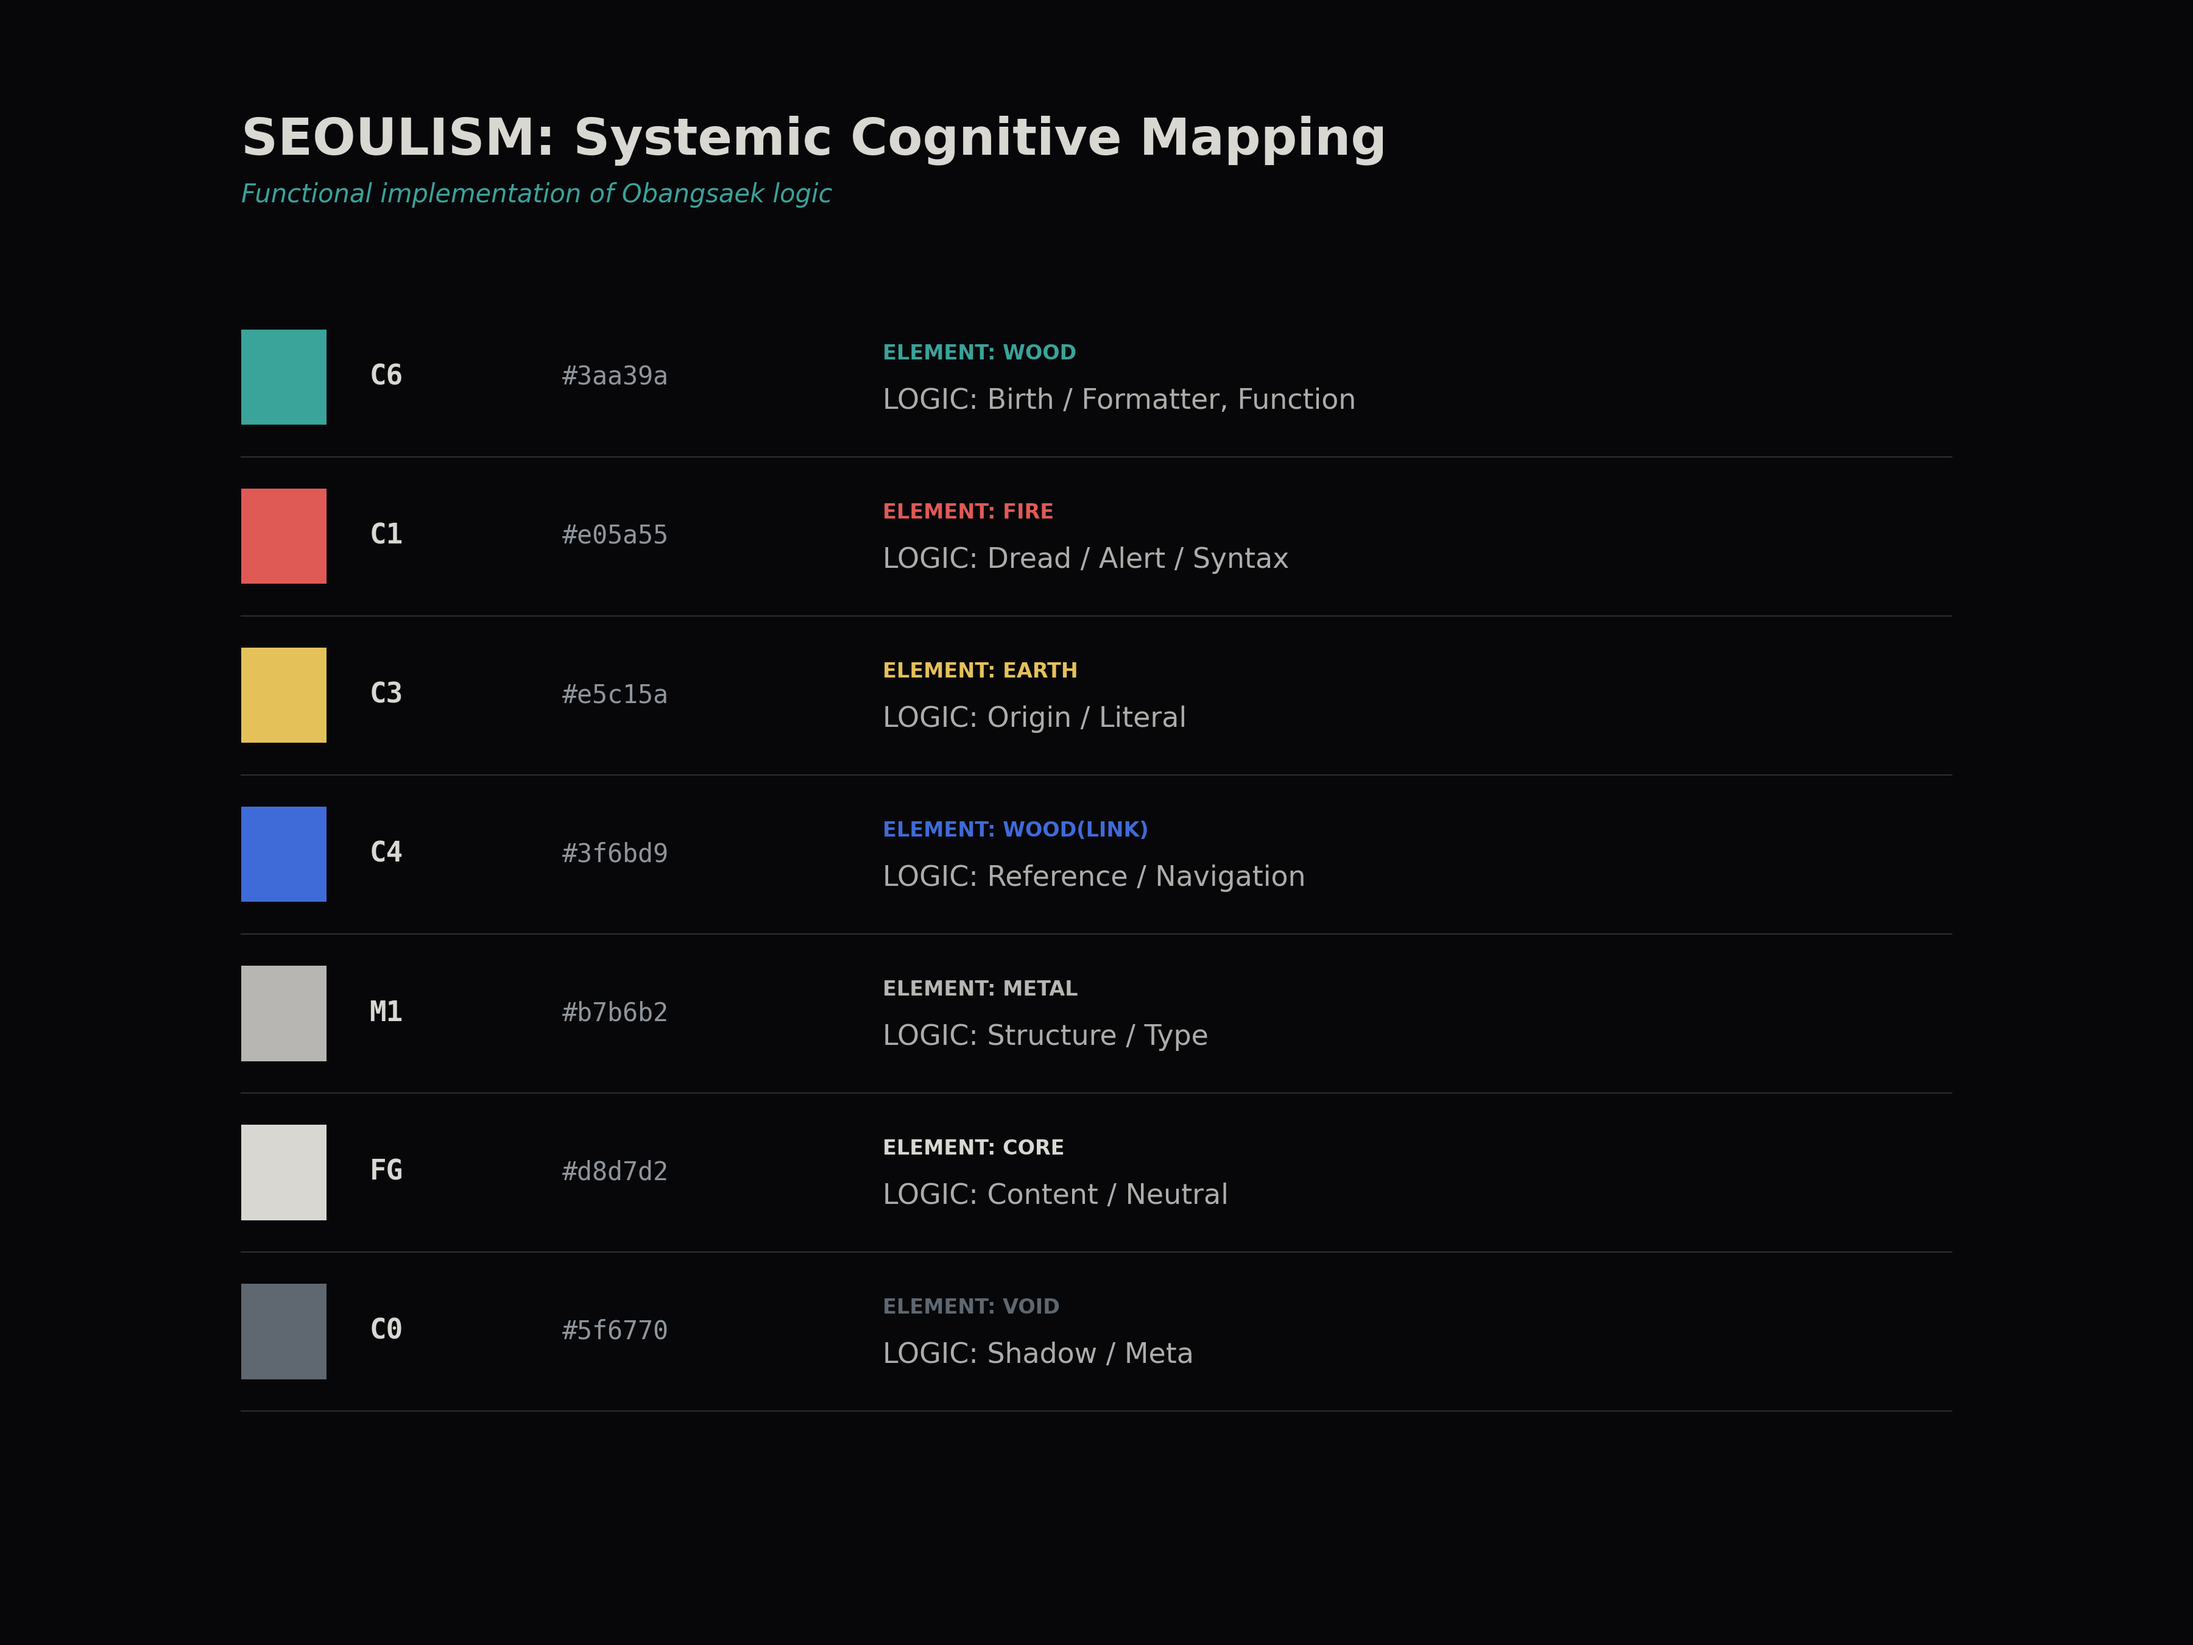
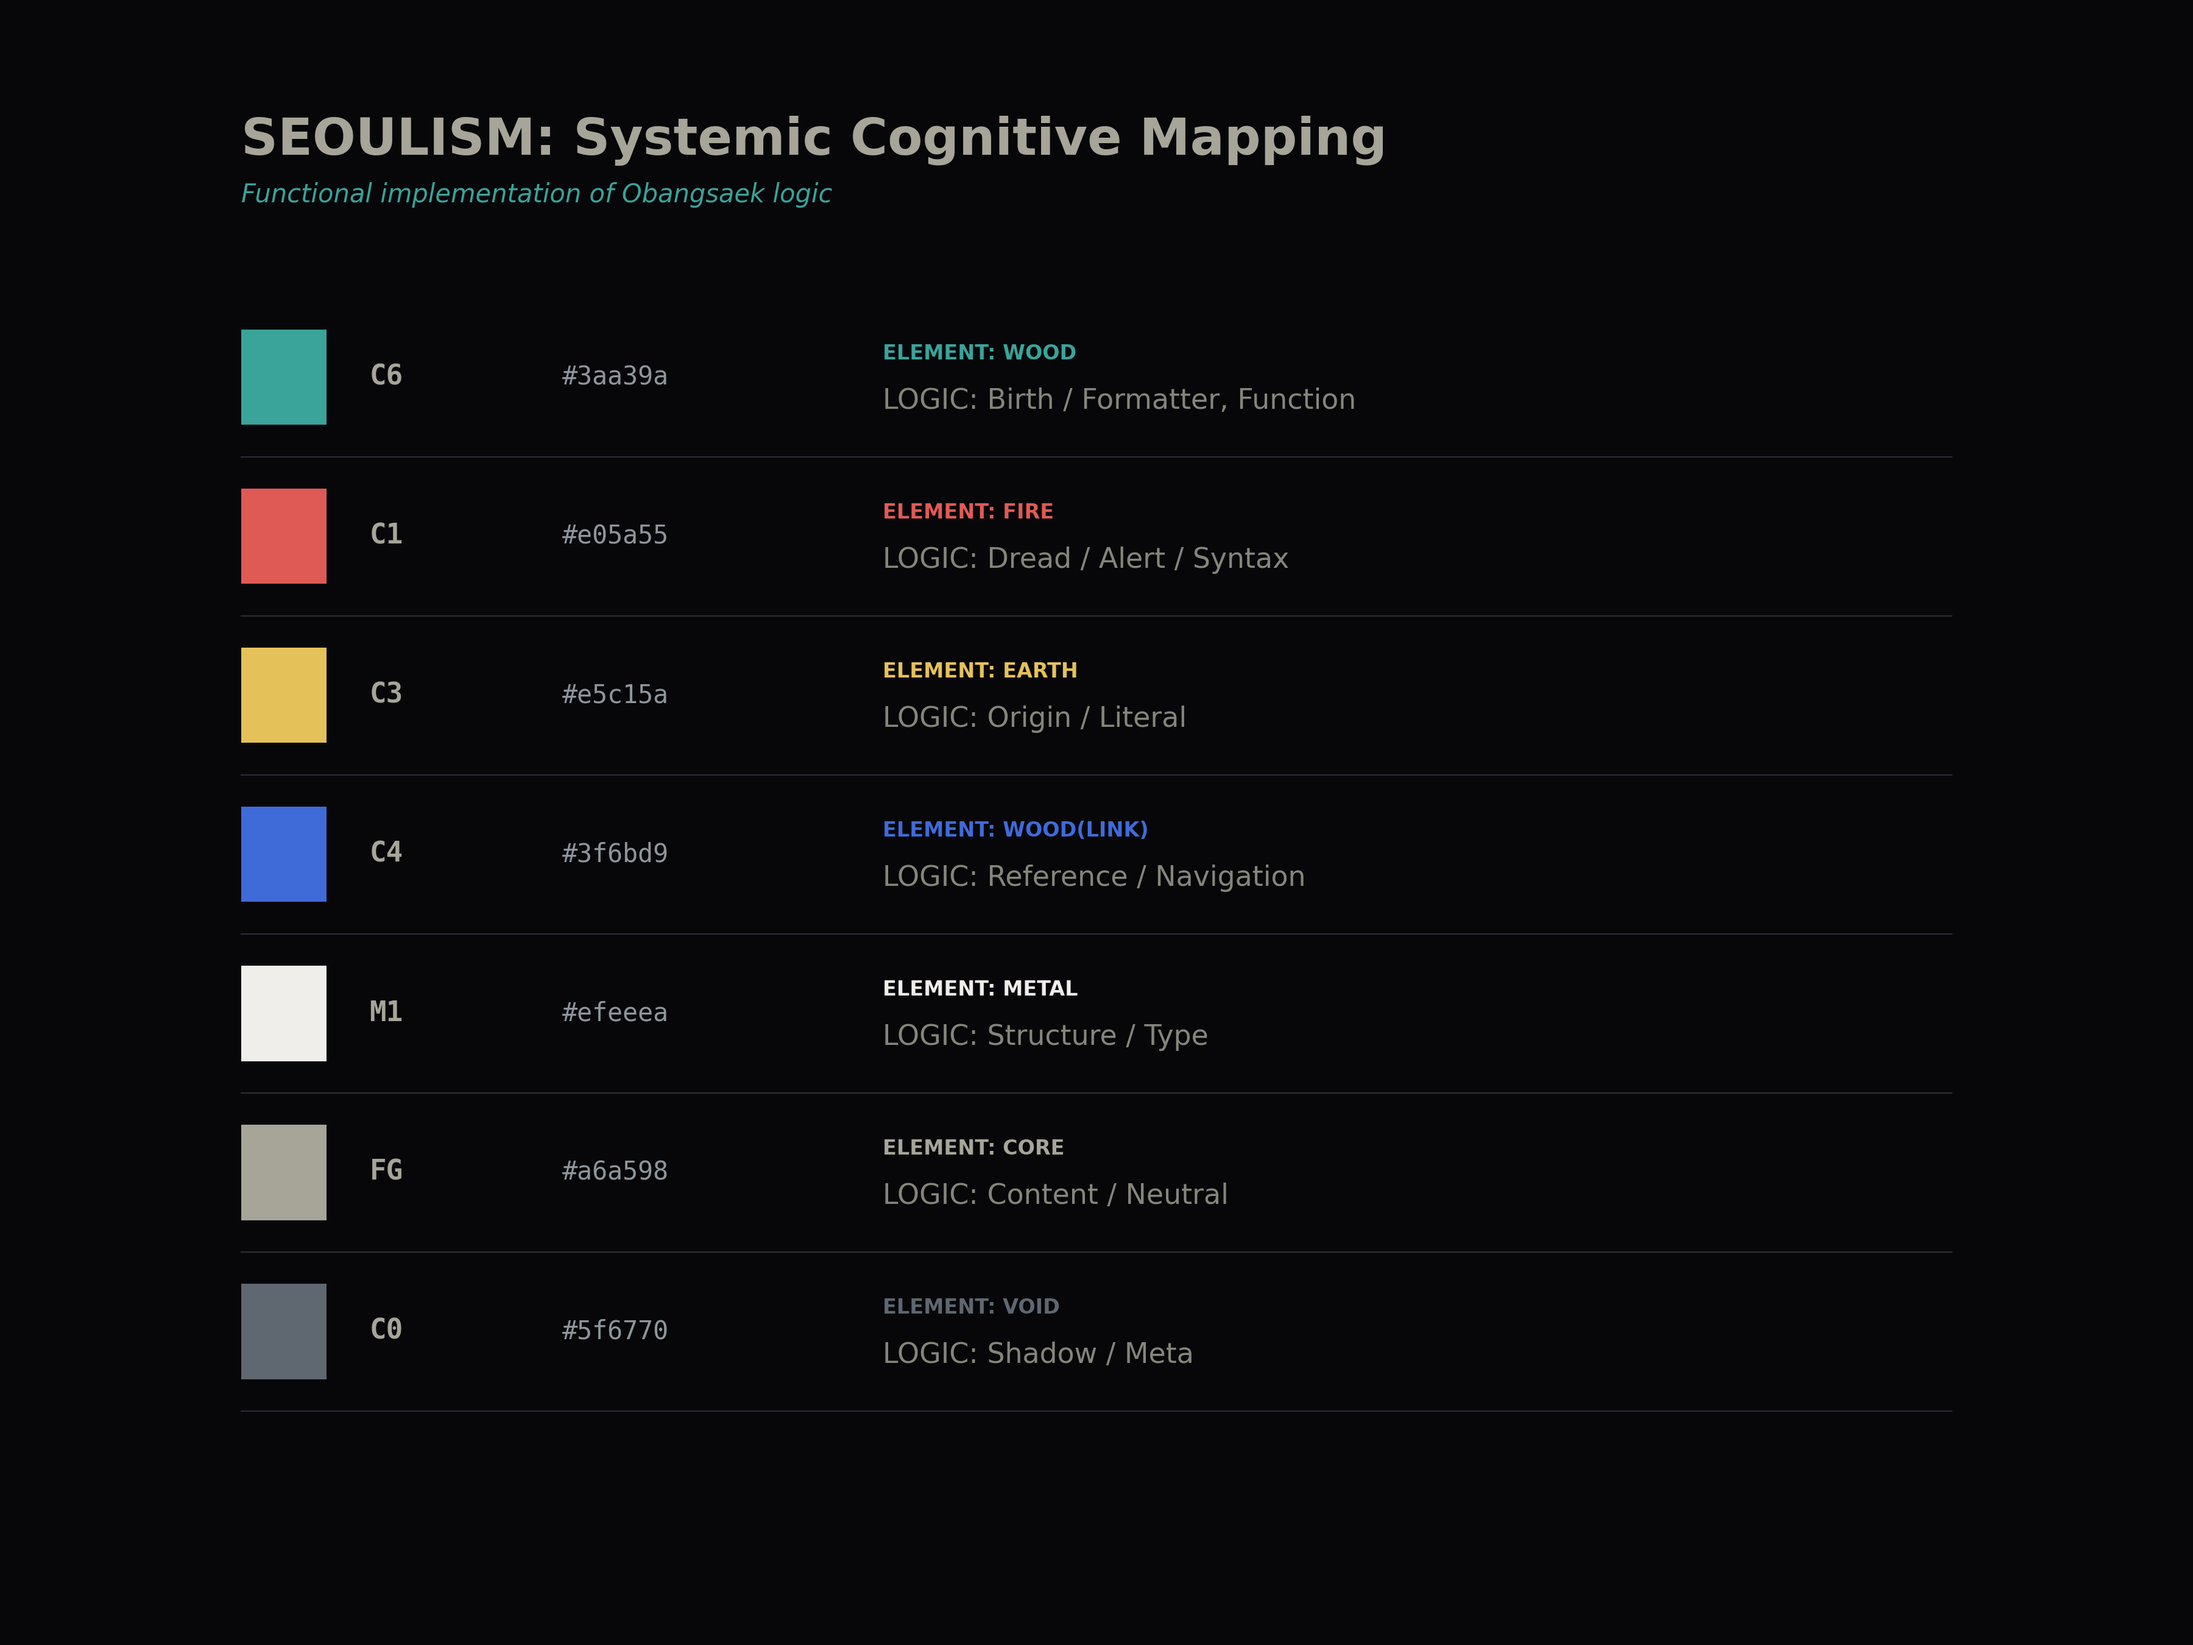
fix normal colors

diff --git a/preview.py b/preview.py
@@ -9,7 +9,7 @@ def draw_seoulism_blueprint():
         {"id": "c3", "tag": "GOLD",   "hex": "#e5c15a", "element": "EARTH",   "logic": "Origin / Literal"},
         {"id": "c4", "tag": "BLUE",   "hex": "#3f6bd9", "element": "WOOD(LINK)",    "logic": "Reference / Navigation"},
         {"id": "m1", "tag": "WHITE",  "hex": "#efeeea", "element": "METAL",   "logic": "Structure / Type"},
-        {"id": "fg", "tag": "BASE",   "hex": "#c6c5c0", "element": "CORE",    "logic": "Content / Neutral"},
+        {"id": "fg", "tag": "BASE",   "hex": "#a6a598", "element": "CORE",    "logic": "Content / Neutral"},
         {"id": "c0", "tag": "SHADOW", "hex": "#5f6770", "element": "VOID",    "logic": "Shadow / Meta"},
     ]
 
@@ -25,7 +25,7 @@ def draw_seoulism_blueprint():
 
     # Header: Technical Specification
     ax.text(10, 92, "SEOULISM: Systemic Cognitive Mapping",
-            color='#c6c5c0', fontsize=20, ha='left', weight='bold')
+            color='#a6a598', fontsize=20, ha='left', weight='bold')
     ax.text(10, 89, "Functional implementation of Obangsaek logic",
             color='#3aa39a', fontsize=10, ha='left', style='italic')
 
@@ -38,7 +38,7 @@ def draw_seoulism_blueprint():
         ax.add_patch(rect)
 
         # Technical Labels
-        ax.text(16, y + 3, item['id'].upper(), color='#c6c5c0',
+        ax.text(16, y + 3, item['id'].upper(), color='#a6a598',
                 fontsize=11, va='center', weight='bold', family='monospace')
 
         ax.text(25, y + 3, item['hex'], color='#8f959c',
@@ -48,7 +48,7 @@ def draw_seoulism_blueprint():
         ax.text(40, y + 4.5, f"ELEMENT: {item['element']}",
                 color=item['hex'], fontsize=8, va='center', weight='black')
         ax.text(40, y + 1.5, f"LOGIC: {item['logic']}",
-                color='#c6c5c0', fontsize=11, va='center', alpha=0.8)
+                color='#a6a598', fontsize=11, va='center', alpha=0.8)
 
         # Divider line for structural feel
         ax.plot([10, 90], [y - 2, y - 2], color='#2b2e36', linewidth=0.5)

diff --git a/visualizer.py b/visualizer.py
@@ -69,7 +69,7 @@ def draw_seoulism_chain():
         stage_idx = int(node.split('_')[1])
         if stage_idx in [2, 3]:
             # Simple brightness check: Dark text for light colors (Yellow/White/Jade)
-            text_color = '#181a1f' if (0.2126*int(hex_color[1:3],16) + 0.7152*int(hex_color[3:5],16) + 0.0722*int(hex_color[5:7],16)) > 135 else '#c6c5c0'
+            text_color = '#181a1f' if (0.2126*int(hex_color[1:3],16) + 0.7152*int(hex_color[3:5],16) + 0.0722*int(hex_color[5:7],16)) > 135 else '#a6a598'
         else:
             text_color = '#b7b6b2'
         
@@ -83,7 +83,7 @@ def draw_seoulism_chain():
                  ha='center', fontweight='extra bold')
 
     plt.title("Systemic Cognitive Mapping: From Elemental Logic to Seoulism", 
-              color='#c6c5c0', fontsize=15, pad=40, fontweight='bold')
+              color='#a6a598', fontsize=15, pad=40, fontweight='bold')
     
     plt.axis('off')
     plt.tight_layout()

diff --git a/pentagon.py b/pentagon.py
@@ -39,7 +39,7 @@ def draw_systemic_divergence():
             ax.add_patch(plt.Circle((x, y), 0.2, facecolor=col, edgecolor='#5f6770', zorder=5))
             is_light = (0.2126*int(col[1:3],16) + 0.7152*int(col[3:5],16) + 0.0722*int(col[5:7],16)) > 135
             ax.text(x, y, f"{node['id']}\n{node['token'] if is_seoul else ''}", 
-                    ha='center', va='center', fontsize=9, fontweight='black', color='#181a1f' if is_light else '#c6c5c0', zorder=6)
+                    ha='center', va='center', fontsize=9, fontweight='black', color='#181a1f' if is_light else '#a6a598', zorder=6)
 
     render_layer(ax1, "trad", "CANONICAL PROTOCOL")
     render_layer(ax2, "seoul", "SEOULISM SYSTEM", is_seoul=True)
